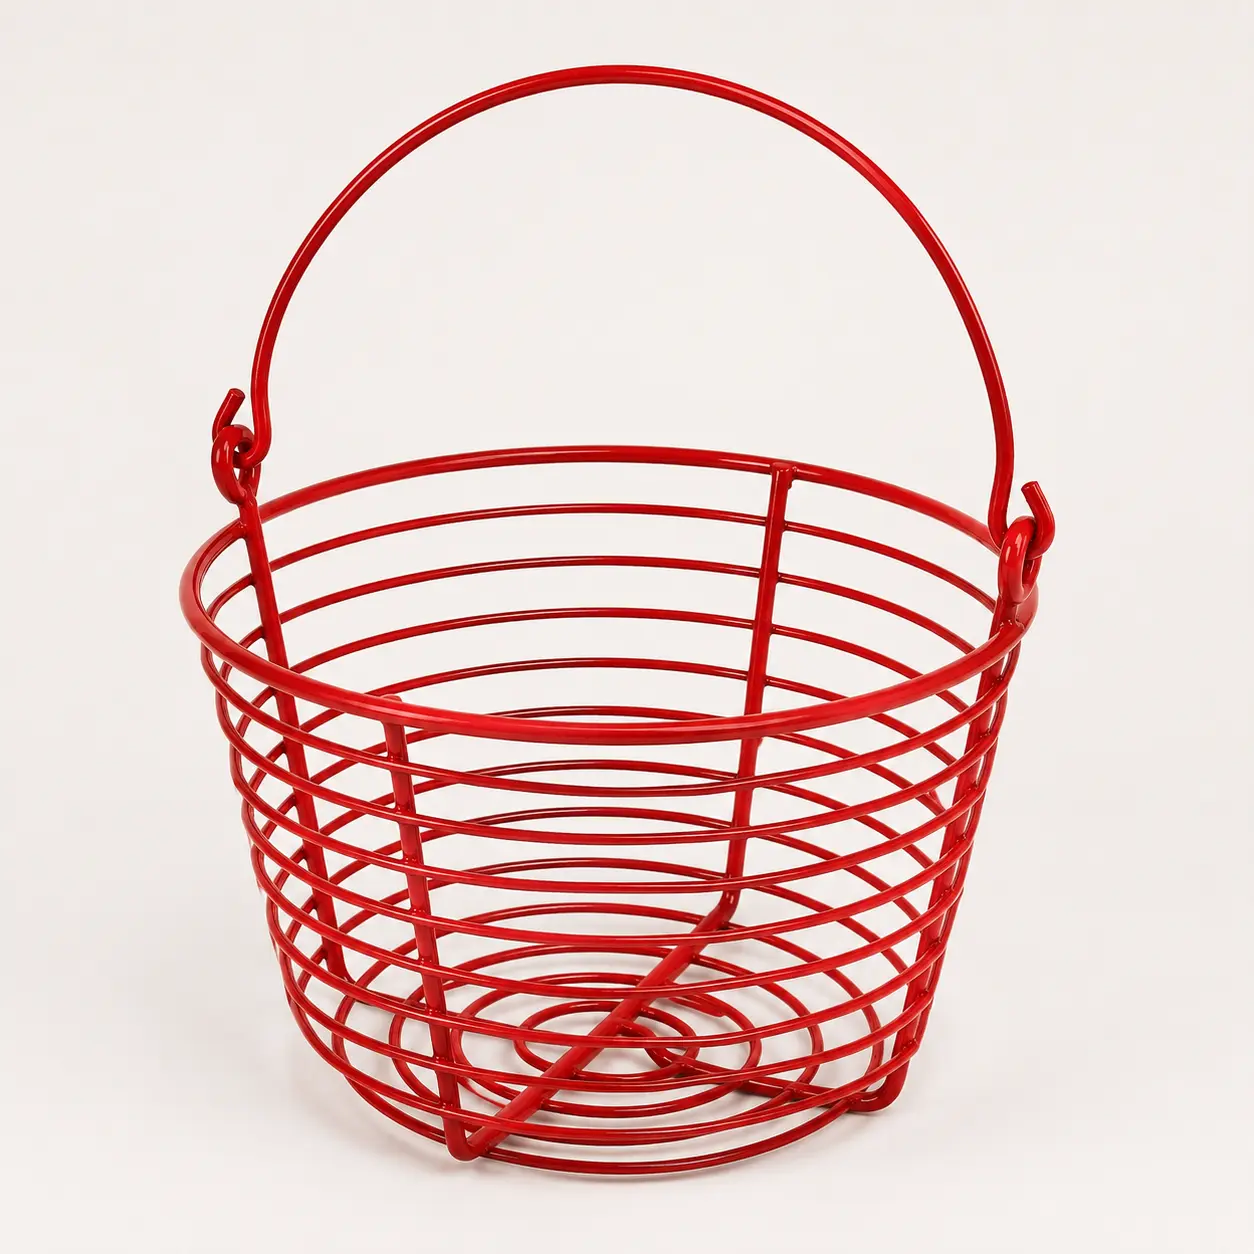
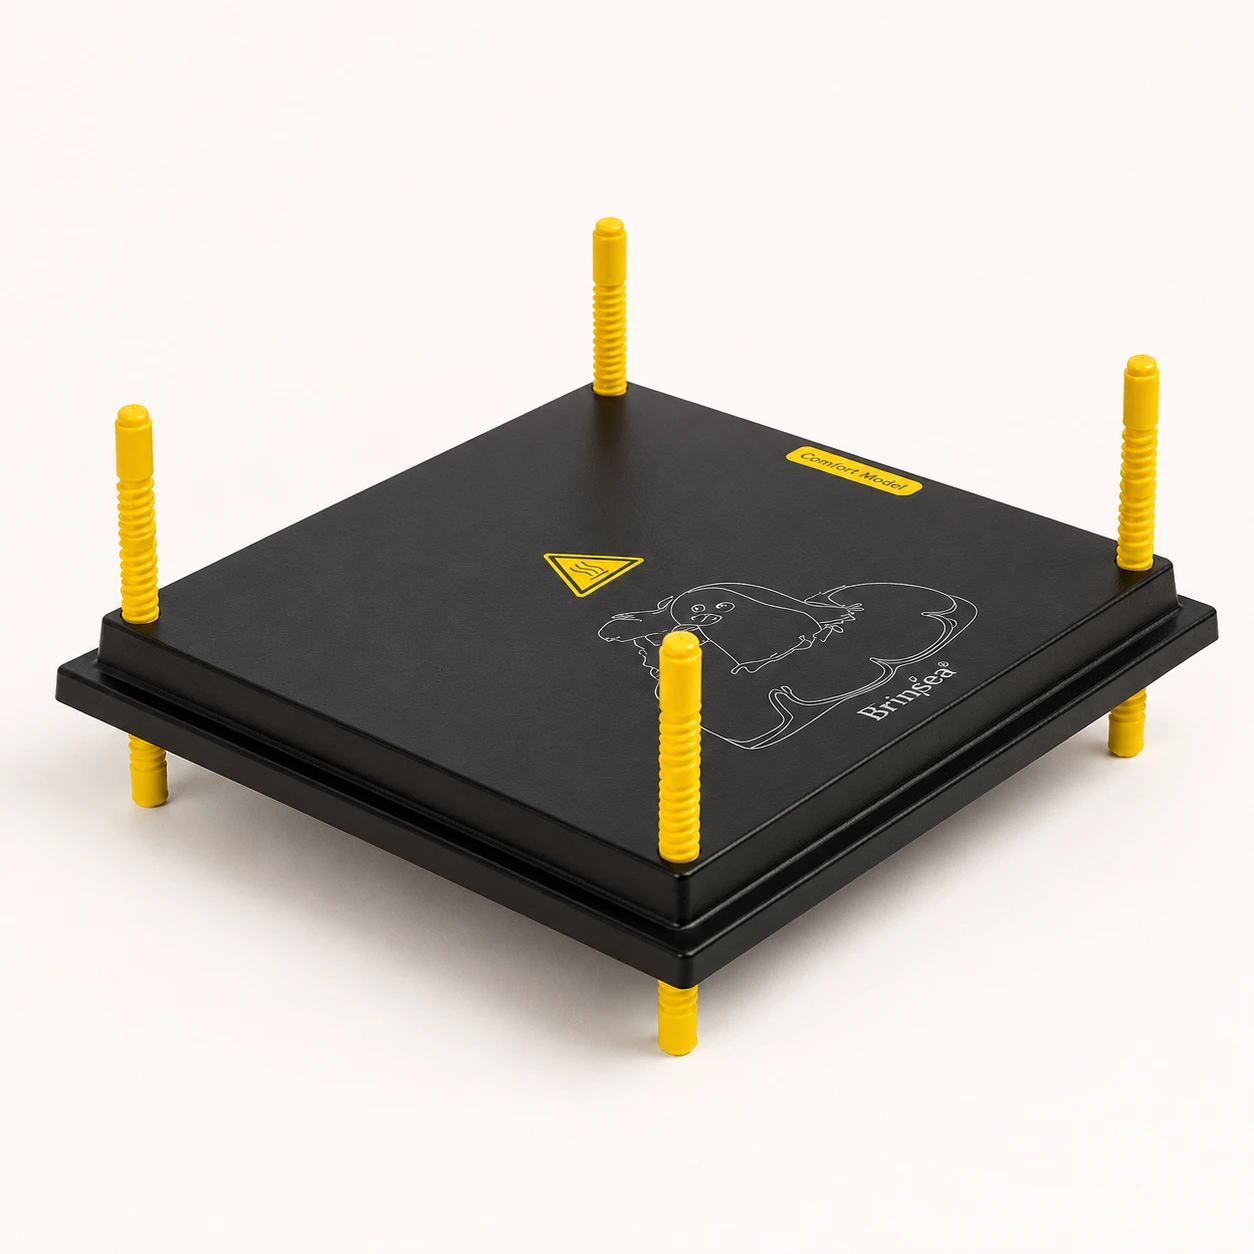
updated website scroll adjusting, when navigating

diff --git a/src/components/layout/ScrollRestoration.tsx b/src/components/layout/ScrollRestoration.tsx
@@ -1,0 +1,83 @@
+import { useEffect, useLayoutEffect } from 'react';
+import { useLocation, useNavigationType } from 'react-router-dom';
+
+const STORAGE_PREFIX = 'scroll-pos:';
+
+/**
+ * Jump the window instantly, bypassing the global `scroll-behavior: smooth`
+ * (which would otherwise animate restoration — we want it to feel immediate).
+ */
+function jumpTo(y: number) {
+  const root = document.documentElement;
+  const previous = root.style.scrollBehavior;
+  root.style.scrollBehavior = 'auto';
+  window.scrollTo(0, y);
+  root.style.scrollBehavior = previous;
+}
+
+/**
+ * App-wide scroll management for client-side navigation.
+ *
+ * React Router doesn't restore scroll on its own, which feels wrong in two
+ * different ways — so we handle the two cases differently:
+ *
+ *   • PUSH (clicking a link to a new page)  → start at the top. Going from a
+ *     scrolled-down home page to the catalogue should land at the top.
+ *   • POP (browser back/forward, and our in-page "Tilbage" button) → return to
+ *     exactly where the user was. Coming back to the catalogue from a product
+ *     should restore both the scroll position and (via the URL) the filter.
+ *   • REPLACE (e.g. toggling a category filter, which rewrites the query) →
+ *     leave the scroll where it is, so adjusting filters doesn't jump the page.
+ *
+ * Positions are remembered per history entry (location.key) in sessionStorage,
+ * so they survive within the browsing session.
+ */
+function ScrollRestoration() {
+  const { key } = useLocation();
+  const navigationType = useNavigationType();
+
+  // Take over from the browser's native restoration so ours is the only one
+  // acting — otherwise the two fight and produce jumps.
+  useEffect(() => {
+    if (!('scrollRestoration' in window.history)) {
+      return;
+    }
+    const previous = window.history.scrollRestoration;
+    window.history.scrollRestoration = 'manual';
+    return () => {
+      window.history.scrollRestoration = previous;
+    };
+  }, []);
+
+  // Continuously record how far the current history entry is scrolled.
+  useEffect(() => {
+    const save = () => {
+      sessionStorage.setItem(STORAGE_PREFIX + key, String(window.scrollY));
+    };
+    window.addEventListener('scroll', save, { passive: true });
+    return () => window.removeEventListener('scroll', save);
+  }, [key]);
+
+  // Place the viewport when a navigation lands. useLayoutEffect runs before
+  // paint, so there's no visible flash of the wrong position.
+  useLayoutEffect(() => {
+    if (navigationType === 'POP') {
+      const raw = sessionStorage.getItem(STORAGE_PREFIX + key);
+      const y = raw === null ? 0 : Number.parseInt(raw, 10);
+      jumpTo(y);
+      // Re-apply on the next frame in case late content shifts the height.
+      const frame = requestAnimationFrame(() => jumpTo(y));
+      return () => cancelAnimationFrame(frame);
+    }
+
+    if (navigationType === 'PUSH') {
+      jumpTo(0);
+    }
+    // REPLACE: intentionally leave the scroll position untouched.
+    return undefined;
+  }, [key, navigationType]);
+
+  return null;
+}
+
+export default ScrollRestoration;

diff --git a/src/pages/ItemDetail/ItemDetailPage.tsx b/src/pages/ItemDetail/ItemDetailPage.tsx
@@ -1,5 +1,5 @@
 import { useEffect, useState } from 'react';
-import { Link, useParams } from 'react-router-dom';
+import { Link, useLocation, useNavigate, useParams } from 'react-router-dom';
 import placeholderImage from '@/assets/images/inventory/placeholder.webp';
 import ReserveAction from '@/components/ReserveAction/ReserveAction';
 import { SITE } from '@/config/site';
@@ -27,6 +27,13 @@ function statusClass(status: Product['status']): string {
 
 function ItemDetailPage() {
   const { slug = '' } = useParams();
+  const navigate = useNavigate();
+  const location = useLocation();
+  // Did the user arrive here from the catalogue grid? If so, going back
+  // should be a real history pop so their filter and scroll are restored.
+  const cameFromCatalogue = Boolean(
+    (location.state as { fromCatalogue?: boolean } | null)?.fromCatalogue,
+  );
   const [group, setGroup] = useState<ProductGroup | null>(null);
   const [selected, setSelected] = useState<Product | null>(null);
   const [status, setStatus] = useState<Status>('loading');
@@ -77,10 +84,21 @@ function ItemDetailPage() {
 
   return (
     <section className={`container ${styles.page}`}>
-      <Link to="/sortiment" className={styles.back}>
-        <span aria-hidden="true" className={styles.backArrow} />
-        Tilbage til sortiment
-      </Link>
+      {cameFromCatalogue ? (
+        <button
+          type="button"
+          className={styles.back}
+          onClick={() => navigate(-1)}
+        >
+          <span aria-hidden="true" className={styles.backArrow} />
+          Tilbage til sortiment
+        </button>
+      ) : (
+        <Link to="/sortiment" className={styles.back}>
+          <span aria-hidden="true" className={styles.backArrow} />
+          Tilbage til sortiment
+        </Link>
+      )}
 
       {status === 'loading' && (
         <div className={styles.layout} aria-hidden="true">

diff --git a/src/pages/ItemDetail/ItemDetailPage.module.css b/src/pages/ItemDetail/ItemDetailPage.module.css
@@ -8,10 +8,15 @@
   align-items: center;
   gap: 0.5rem;
   margin-bottom: var(--space-4);
+  padding: 0;
+  border: 0;
+  background: none;
   color: var(--color-text-muted);
+  font-family: inherit;
   font-size: 0.95rem;
   font-weight: 600;
   text-decoration: none;
+  cursor: pointer;
   transition: color 150ms ease;
 }
 

diff --git a/src/styles/global.css b/src/styles/global.css
@@ -7,7 +7,9 @@
 }
 
 html {
-  scroll-behavior: smooth;
+  /* No global smooth scroll: route changes must jump instantly. Smooth
+     scrolling is opted into explicitly where wanted (e.g. the in-page anchor
+     links via scrollIntoView({ behavior: 'smooth' })). */
   scrollbar-gutter: stable;
 }
 

diff --git a/src/components/layout/Layout.tsx b/src/components/layout/Layout.tsx
@@ -1,6 +1,7 @@
 import { useEffect, useRef } from 'react';
 import { Outlet } from 'react-router-dom';
 import { InventoryProvider } from '@/context/InventoryContext';
+import ScrollRestoration from './ScrollRestoration';
 import TopPanel from './TopPanel';
 import styles from './Layout.module.css';
 
@@ -42,6 +43,7 @@ function Layout() {
 
   return (
     <InventoryProvider>
+      <ScrollRestoration />
       <div className={styles.shell} ref={shellRef}>
         <TopPanel />
         <main className={styles.main}>

diff --git a/src/pages/catalogue/CataloguePage.tsx b/src/pages/catalogue/CataloguePage.tsx
@@ -129,6 +129,7 @@ function CataloguePage() {
                   <Link
                     key={group.key}
                     to={`/sortiment/${groupSlug(group)}`}
+                    state={{ fromCatalogue: true }}
                     className={styles.cardLink}
                     aria-label={group.title}
                   >